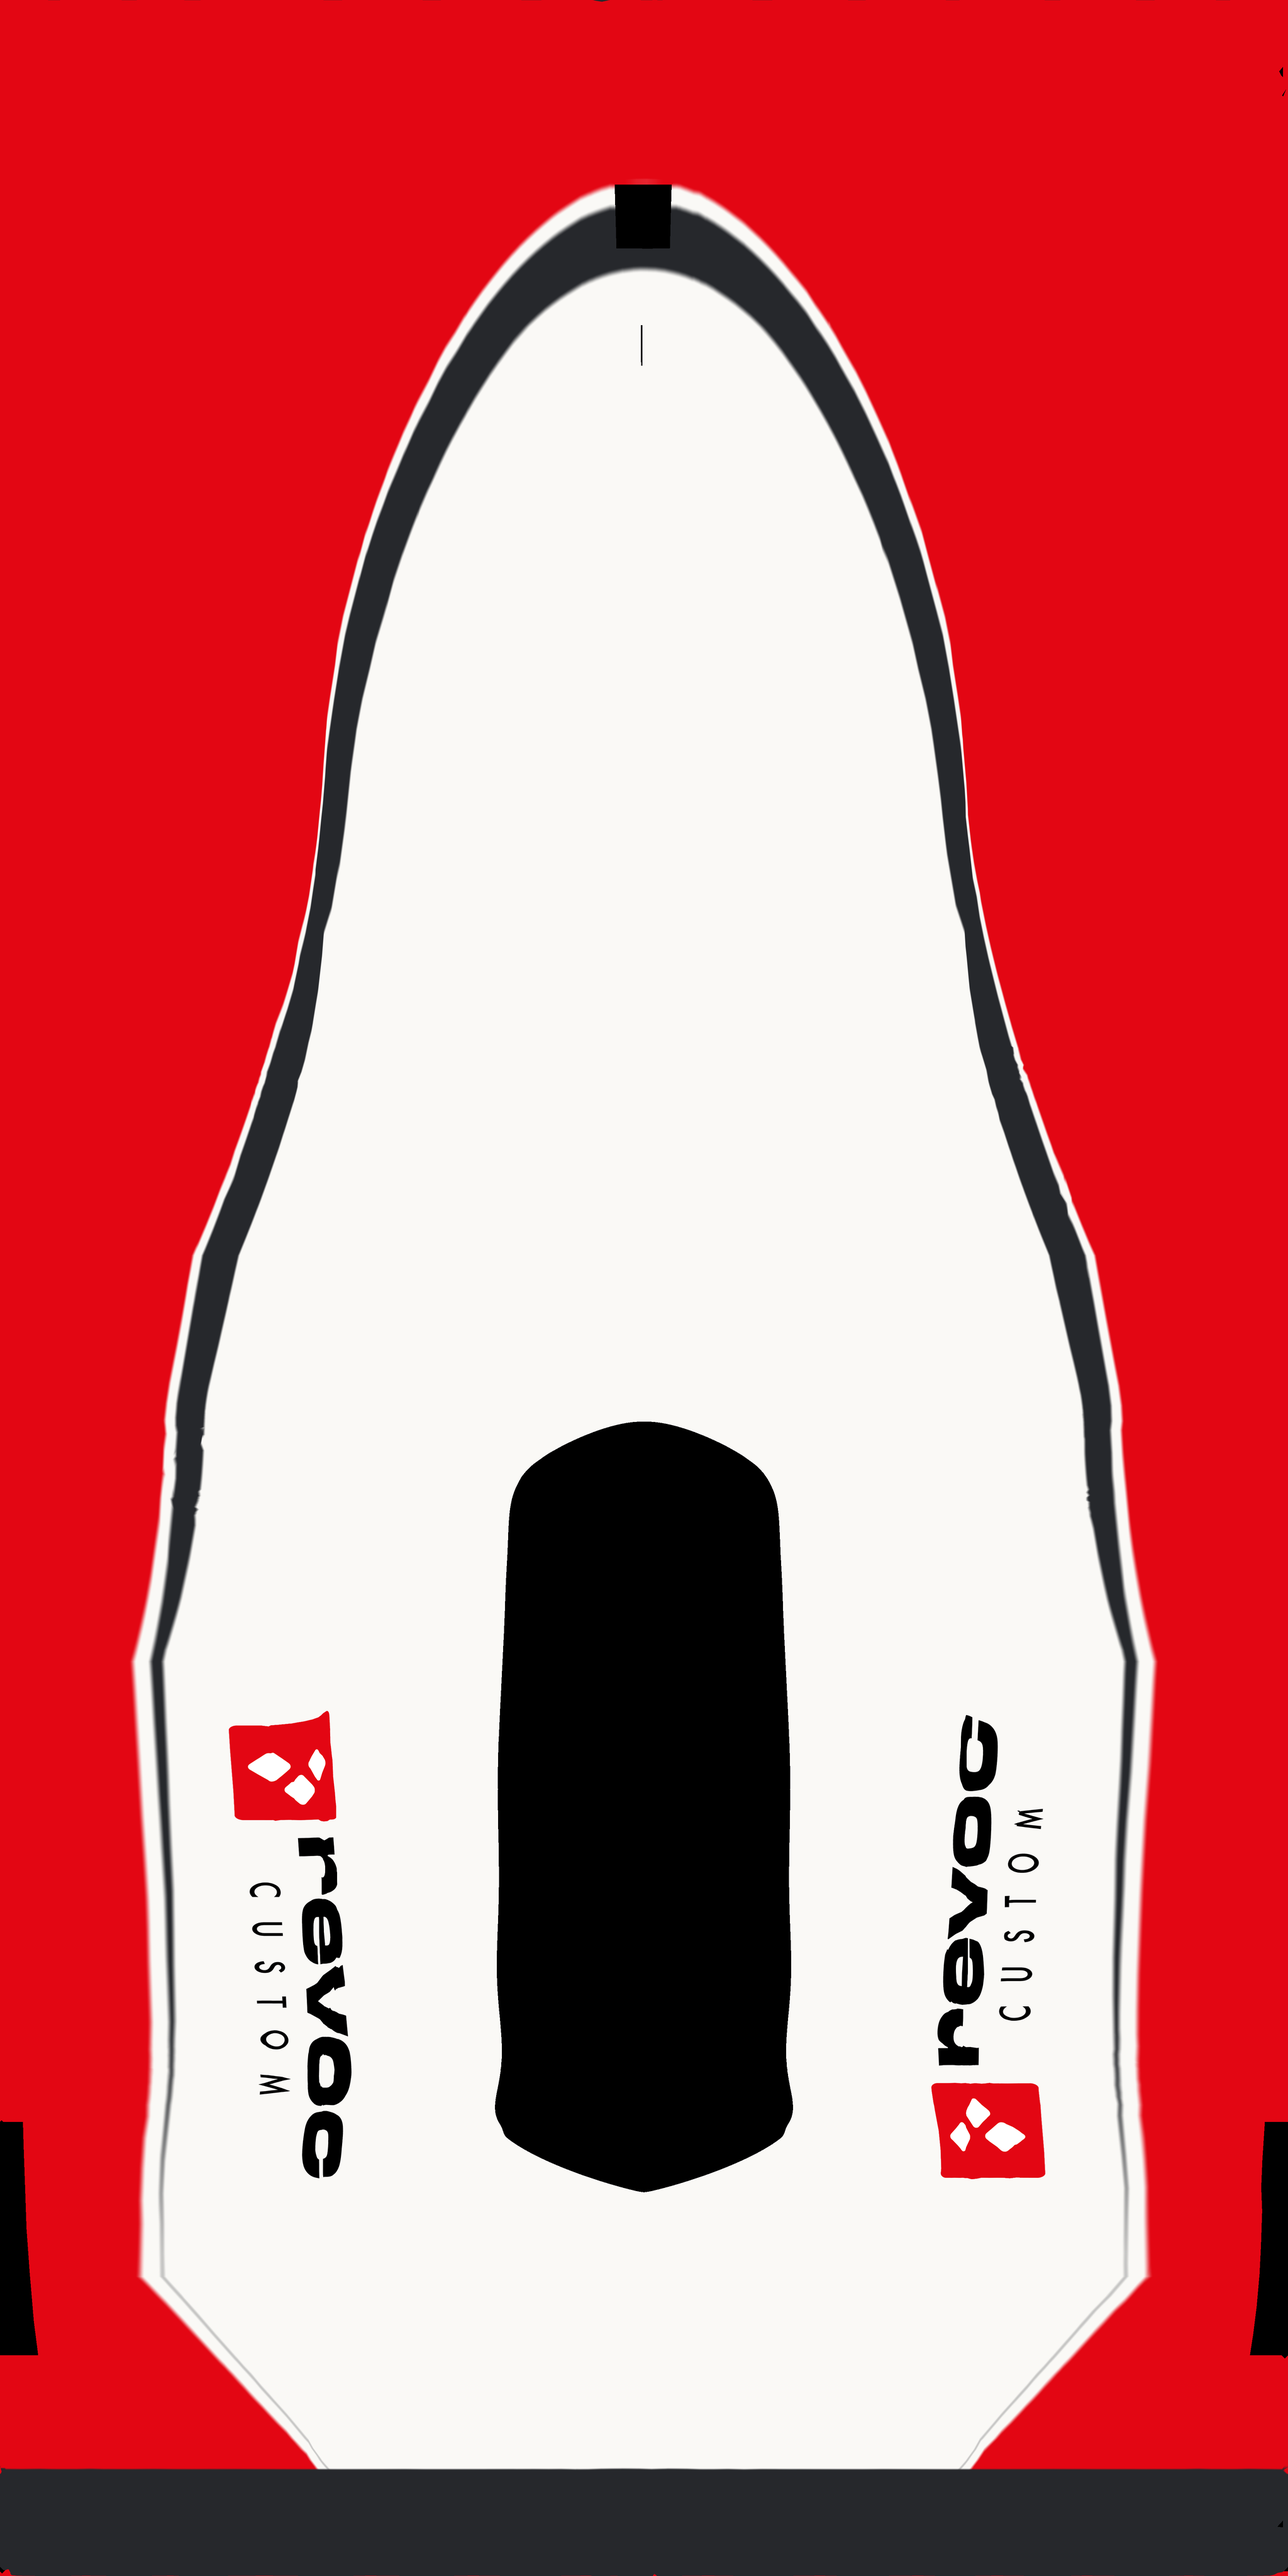
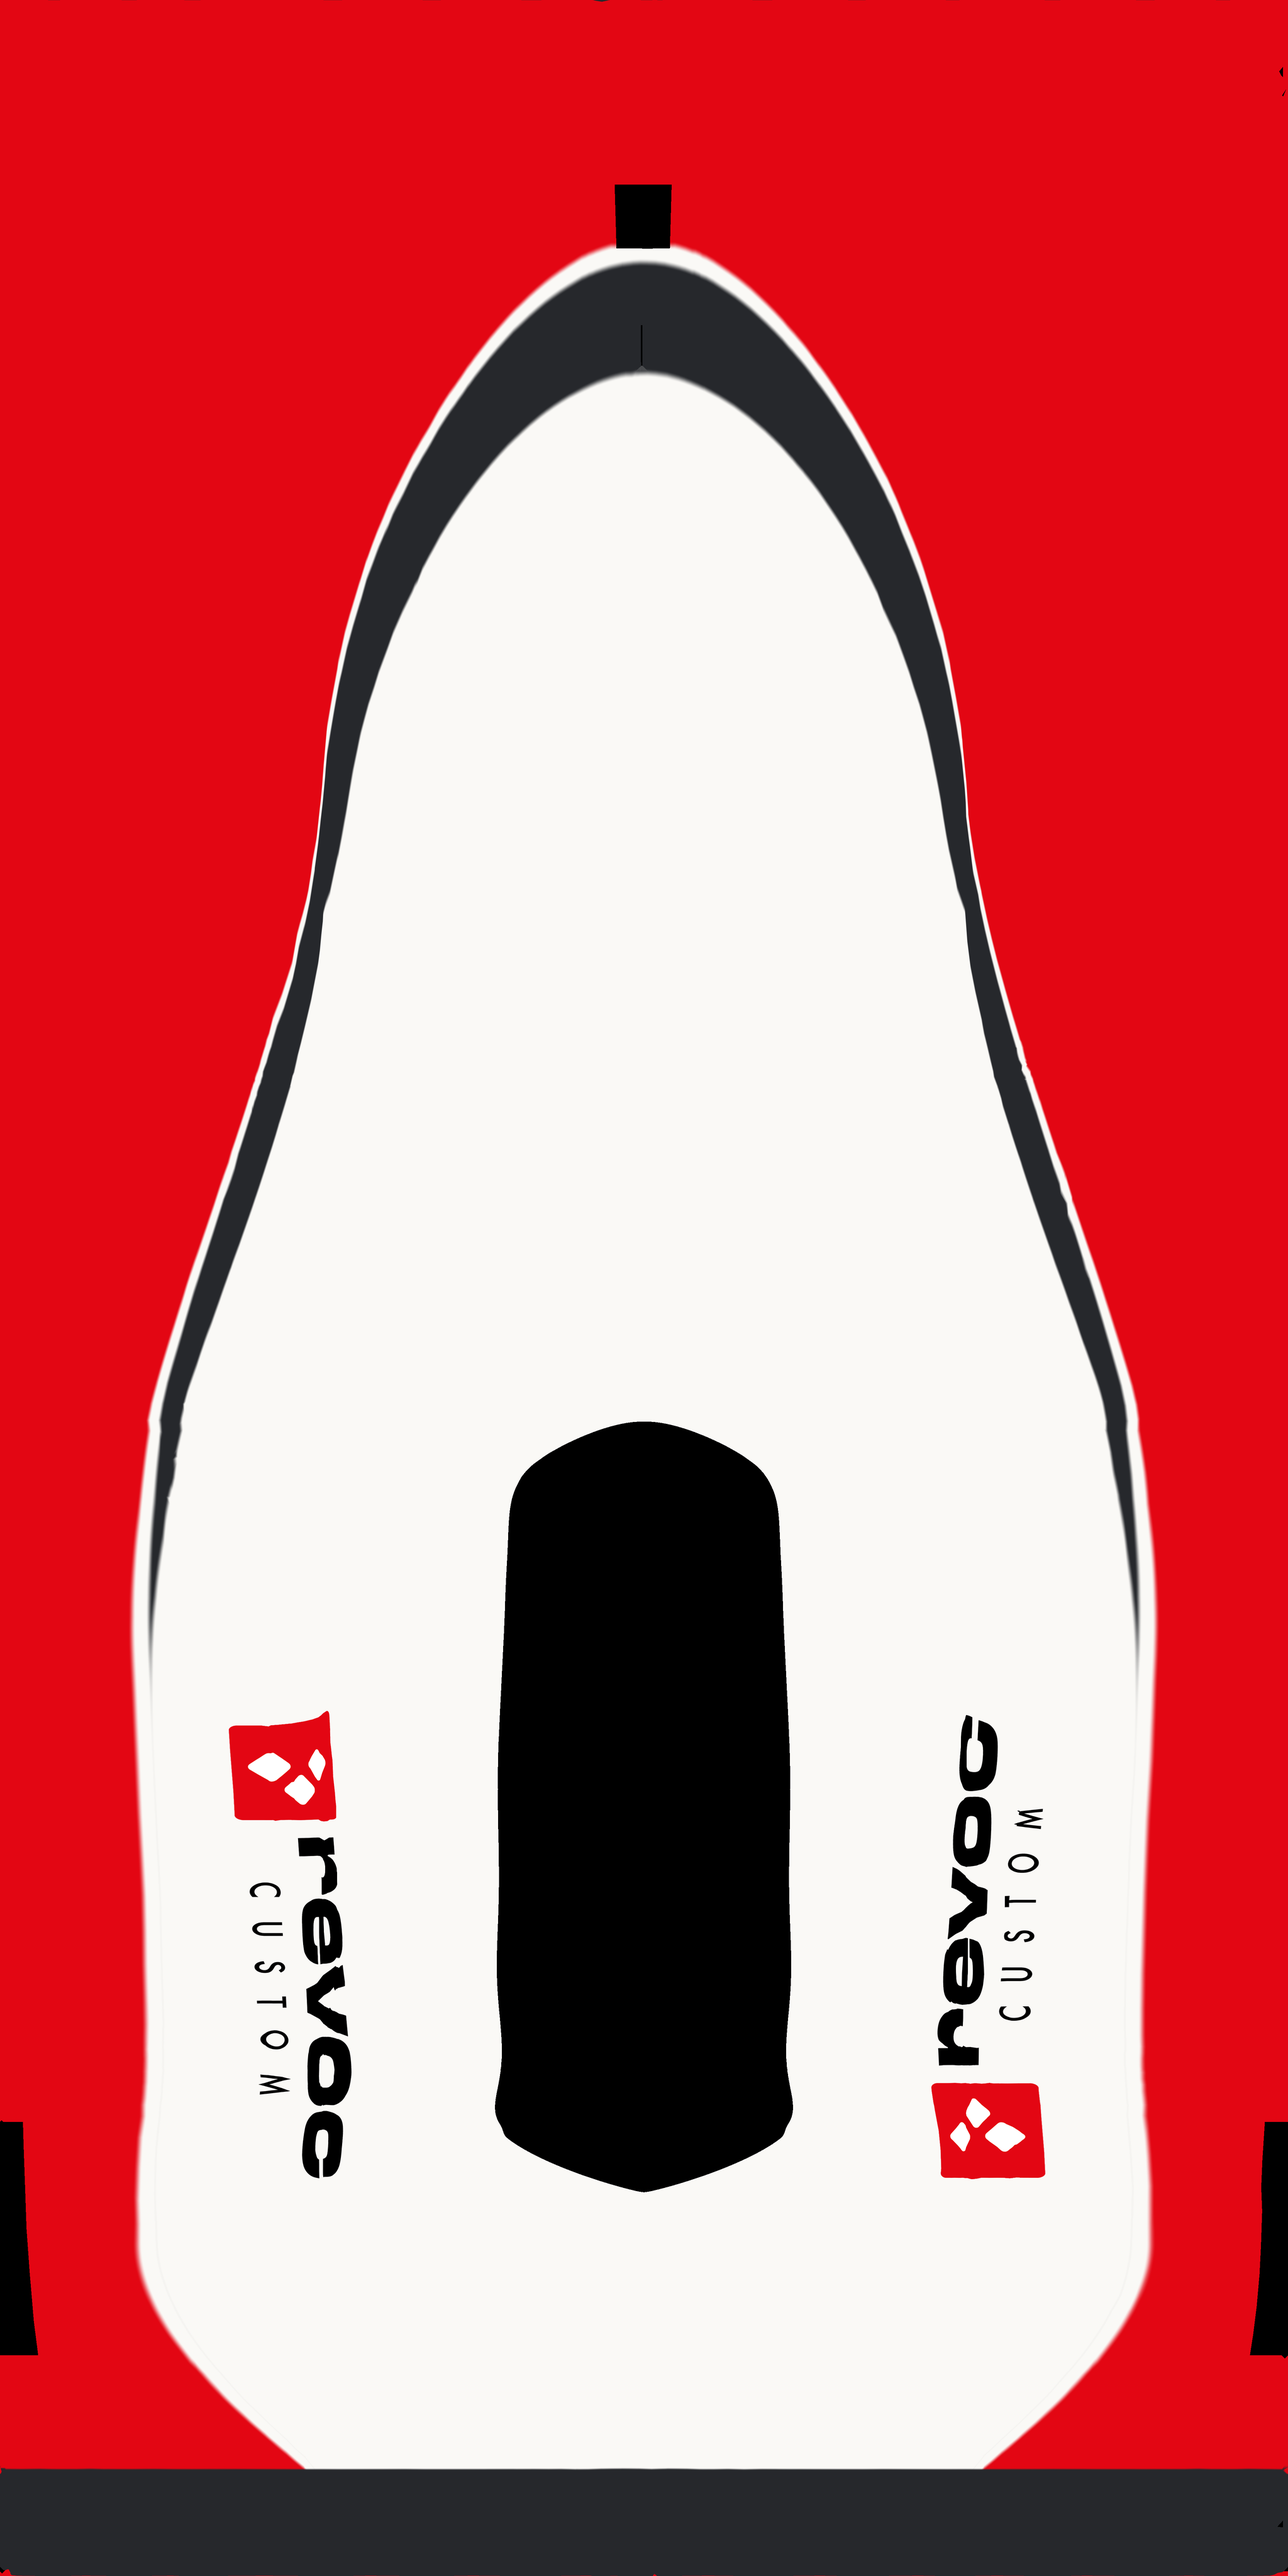
Update vehicle paint assets and adjust material properties for improved rendering

Changed region(s): [[0.25, 0.0625, 0.75, 0.3125], [0.7188, 0.3438, 0.9062, 0.9688], [0.0938, 0.3438, 0.2812, 0.9688]]

diff --git a/tools/skins/build_vehicle_paints.py b/tools/skins/build_vehicle_paints.py
@@ -418,7 +418,7 @@ def _node_matrix(node: dict) -> np.ndarray:
     return t @ r @ s
 
 
-def scene_primitives(path: Path, materials):
+def scene_primitives(path: Path, materials, *, mesh_nodes=()):
     """Yield (material, scene positions, scene normals, uv, triangles) with every node transform applied."""
     doc, accessor = read_glb(path)
     names = [m["name"] for m in doc["materials"]]
@@ -428,7 +428,7 @@ def scene_primitives(path: Path, materials):
     def walk(index: int, parent: np.ndarray) -> None:
         node = doc["nodes"][index]
         world = parent @ _node_matrix(node)
-        if "mesh" in node:
+        if "mesh" in node and (not mesh_nodes or node.get("name") in mesh_nodes):
             normal_matrix = np.linalg.inv(world[:3, :3]).T
             for prim in doc["meshes"][node["mesh"]]["primitives"]:
                 name = names[prim["material"]]
@@ -450,7 +450,7 @@ def scene_primitives(path: Path, materials):
     return found
 
 
-def bake_scene(path: Path, materials, size, symmetric: bool = False, skin_axis: int = -1):
+def bake_scene(path: Path, materials, size, symmetric: bool = False, skin_axis: int = -1, *, mesh_nodes=()):
     """UV-space rasterisation of several materials sharing one atlas: scene position, normal, material id.
     `symmetric` folds the scene about the X = 0 plane first: left and right parts that share mirrored UVs (the
     jet's wings and stabiliser) then accumulate the same |x| instead of averaging to the centre line.
@@ -462,7 +462,7 @@ def bake_scene(path: Path, materials, size, symmetric: bool = False, skin_axis: 
     mat_map = np.full((height, width), -1, dtype=np.int32)
     weight = np.zeros((height, width))
     best = np.full((height, width), -1.0)
-    for name, pos, nrm, uv, tris in scene_primitives(path, materials):
+    for name, pos, nrm, uv, tris in scene_primitives(path, materials, mesh_nodes=mesh_nodes):
         mat_id = list(materials).index(name)
         if symmetric and pos[:, 0].mean() < 0.0:
             mirror = np.array([-1.0, 1.0, 1.0])
@@ -1089,7 +1089,7 @@ def revoc_body_colours(y, z):
     stripe = smoothstep(0.004, 0.006, d) * (1 - smoothstep(0.003, 0.005, d - width))
     colour = mix(colour, REVOC_GRAPHITE, stripe)
     # Use the same upper sweep on both sides of the fuselage/fin joint.
-    rise = y - 0.245 + 0.23 * (z - 1.025)
+    rise = y - 0.245 + 0.28 * (z - 1.005)
     return mix(colour, REVOC_RED, smoothstep(-0.001, 0.001, rise))
 
 
@@ -1097,19 +1097,20 @@ def revoc_body(atlas, p, logo):
     _, y, z = p.T
     colour = revoc_body_colours(y, z)
     if atlas == "fuselage":
-        # The upper sweep is confined to the tail. Finish the nose with a full cap.
+        # Finish the nose with a full cap.
         colour = mix(colour, REVOC_GRAPHITE, 1 - smoothstep(-0.847, -0.845, z))
         # Follow the lower intake crease on both flanks. At 390 mm wide the midpoint
         # of the clear space between the two lines (source row 277) is 13.1 mm below centre.
         crease_y = np.interp(z, [-0.52, -0.36, -0.205], [0.0128, 0.0097, 0.0091])
         revoc_decal(colour, p, logo, -0.595, -0.205, crease_y + 0.0131)
         return colour
-    cap = y - 0.531 - 0.20 * (z - 1.1)
+    # Curl the cap up to the top edge before the rudder, which shares UVs with
+    # the fixed fin and carries solid red across the whole hinge.
+    cap = y - 0.531 - 0.20 * (z - 1.1) - 0.064 * smoothstep(1.178, 1.218, z)
     colour = mix(colour, REVOC_WHITE, smoothstep(-0.001, 0.001, cap))
     colour = mix(colour, REVOC_GRAPHITE, smoothstep(0.010, 0.012, cap))
-    if atlas == "fin":
-        # The square emblem fits on the fixed fin ahead of the rudder hinge.
-        revoc_decal(colour, p, logo[:, :logo.shape[0]], 0.992, 1.109, 0.376)
+    # The square emblem fits on the fixed fin ahead of the rudder hinge.
+    revoc_decal(colour, p, logo[:, :logo.shape[0]], 0.992, 1.109, 0.376)
     return colour
 
 
@@ -1167,7 +1168,8 @@ def build_revoc(atlas):
     materials = JET_ATLASES[atlas][0]
     # Four samples per delivered texel. Filter the colour after projection and island
     # padding, so a diagonal stripe and a UV seam get the same edge coverage.
-    p, n, material_ids, covered = bake_scene(JET_GLB, materials, sample_size, skin_axis=0)
+    mesh_nodes = ("vertical_tail_fixed",) if atlas == "fin" else ()
+    p, n, material_ids, covered = bake_scene(JET_GLB, materials, sample_size, skin_axis=0, mesh_nodes=mesh_nodes)
     del n, material_ids
     colour = np.zeros(p.shape, dtype=np.uint8)
     for rows in range(0, len(covered), 128):
